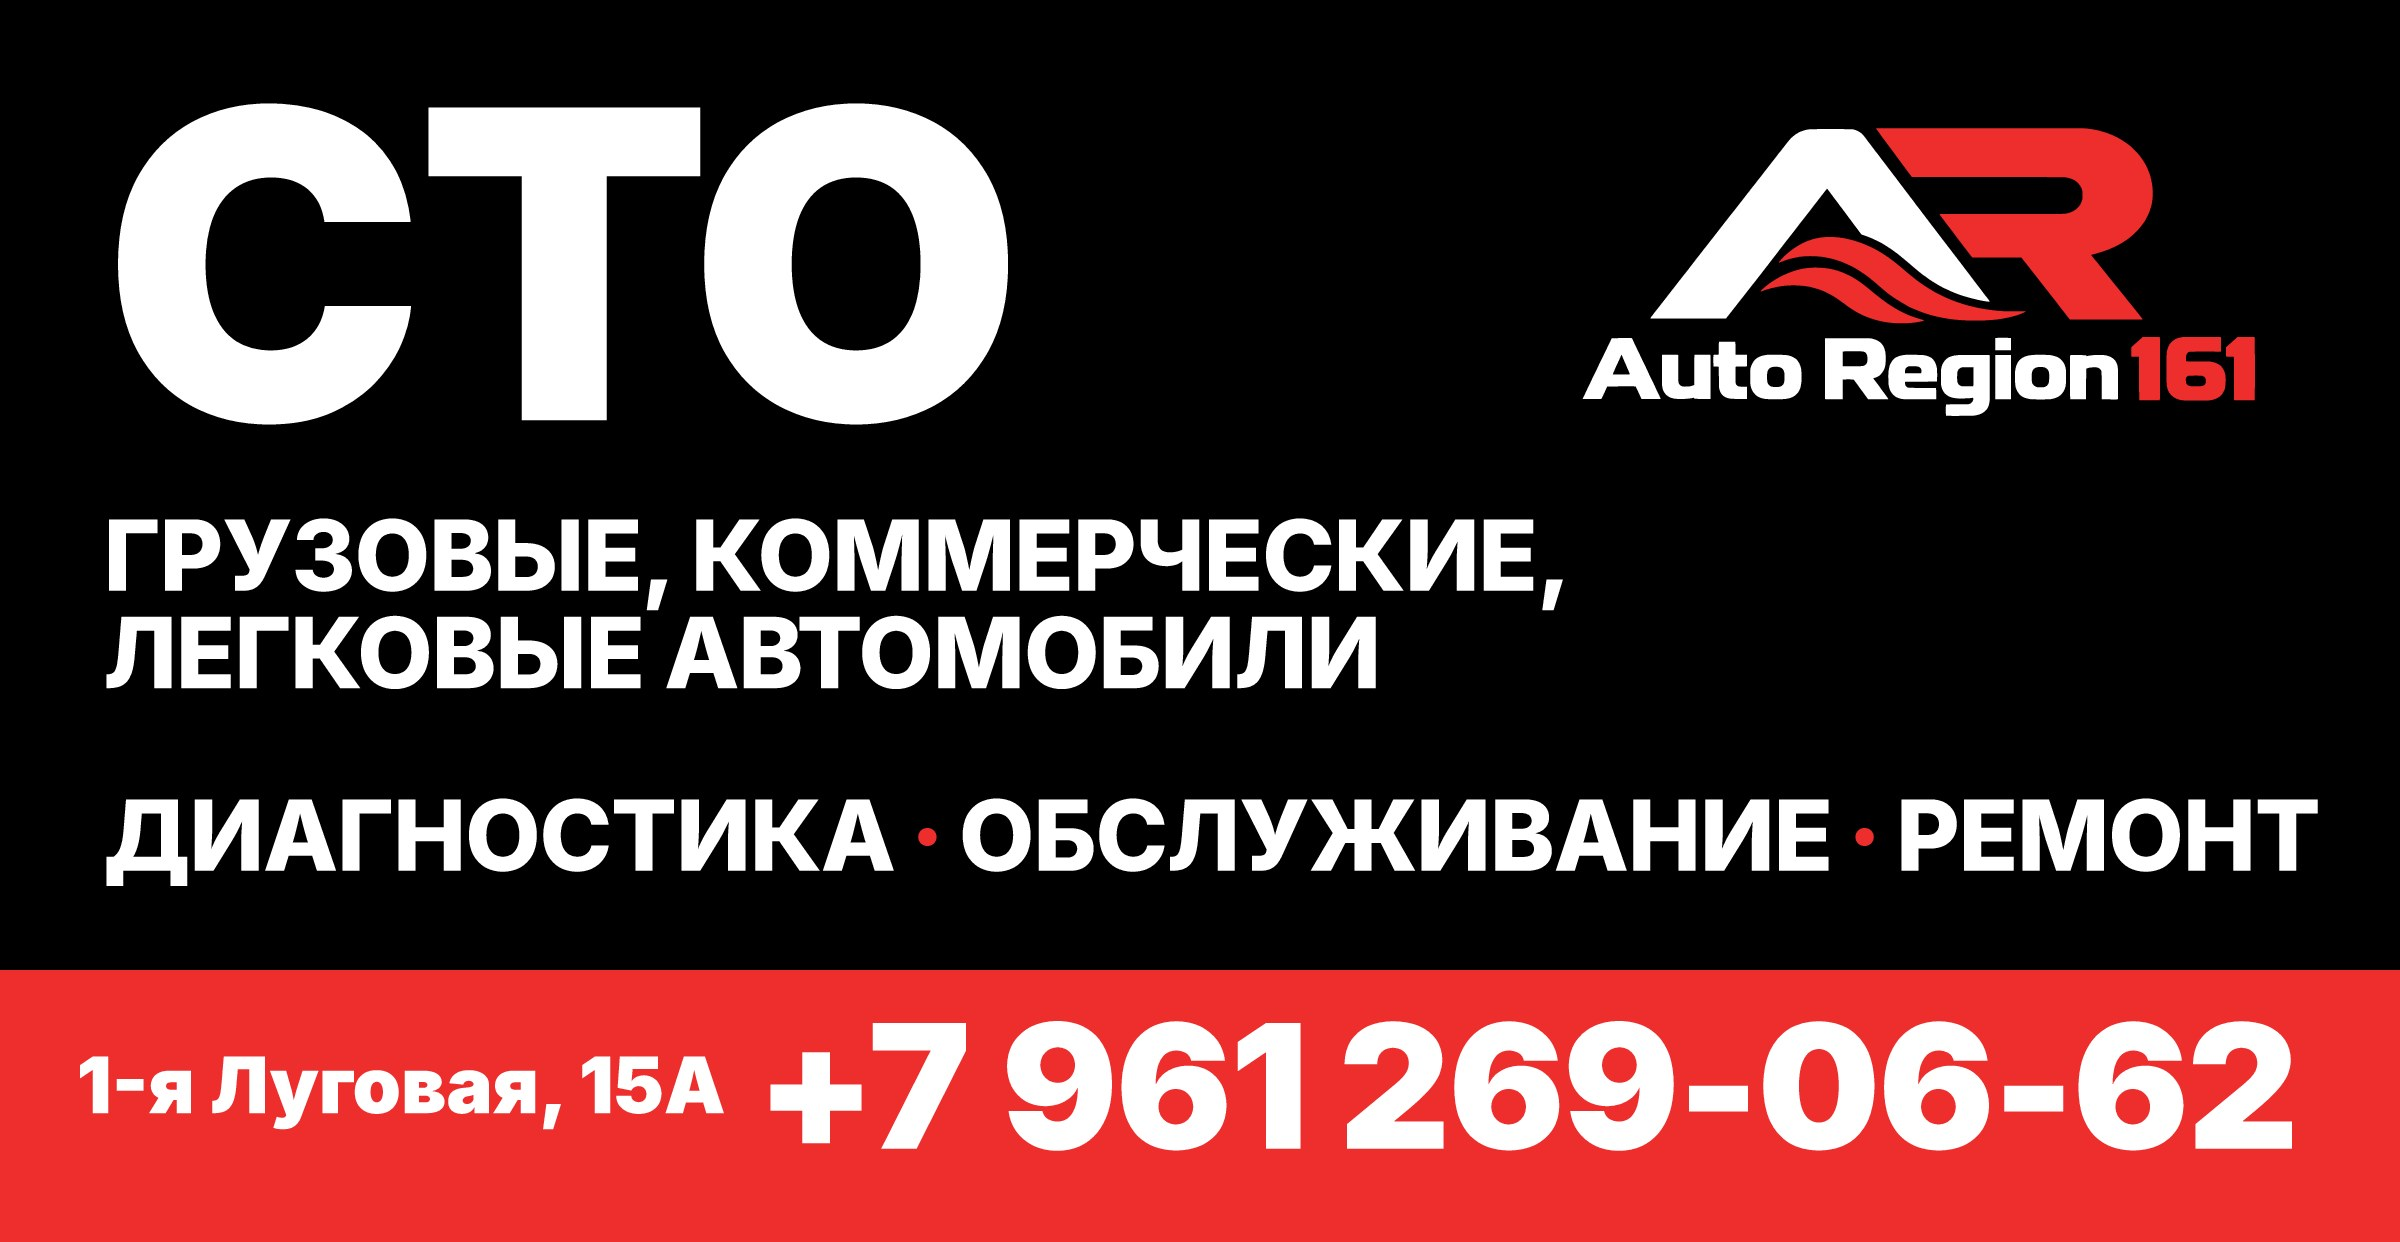
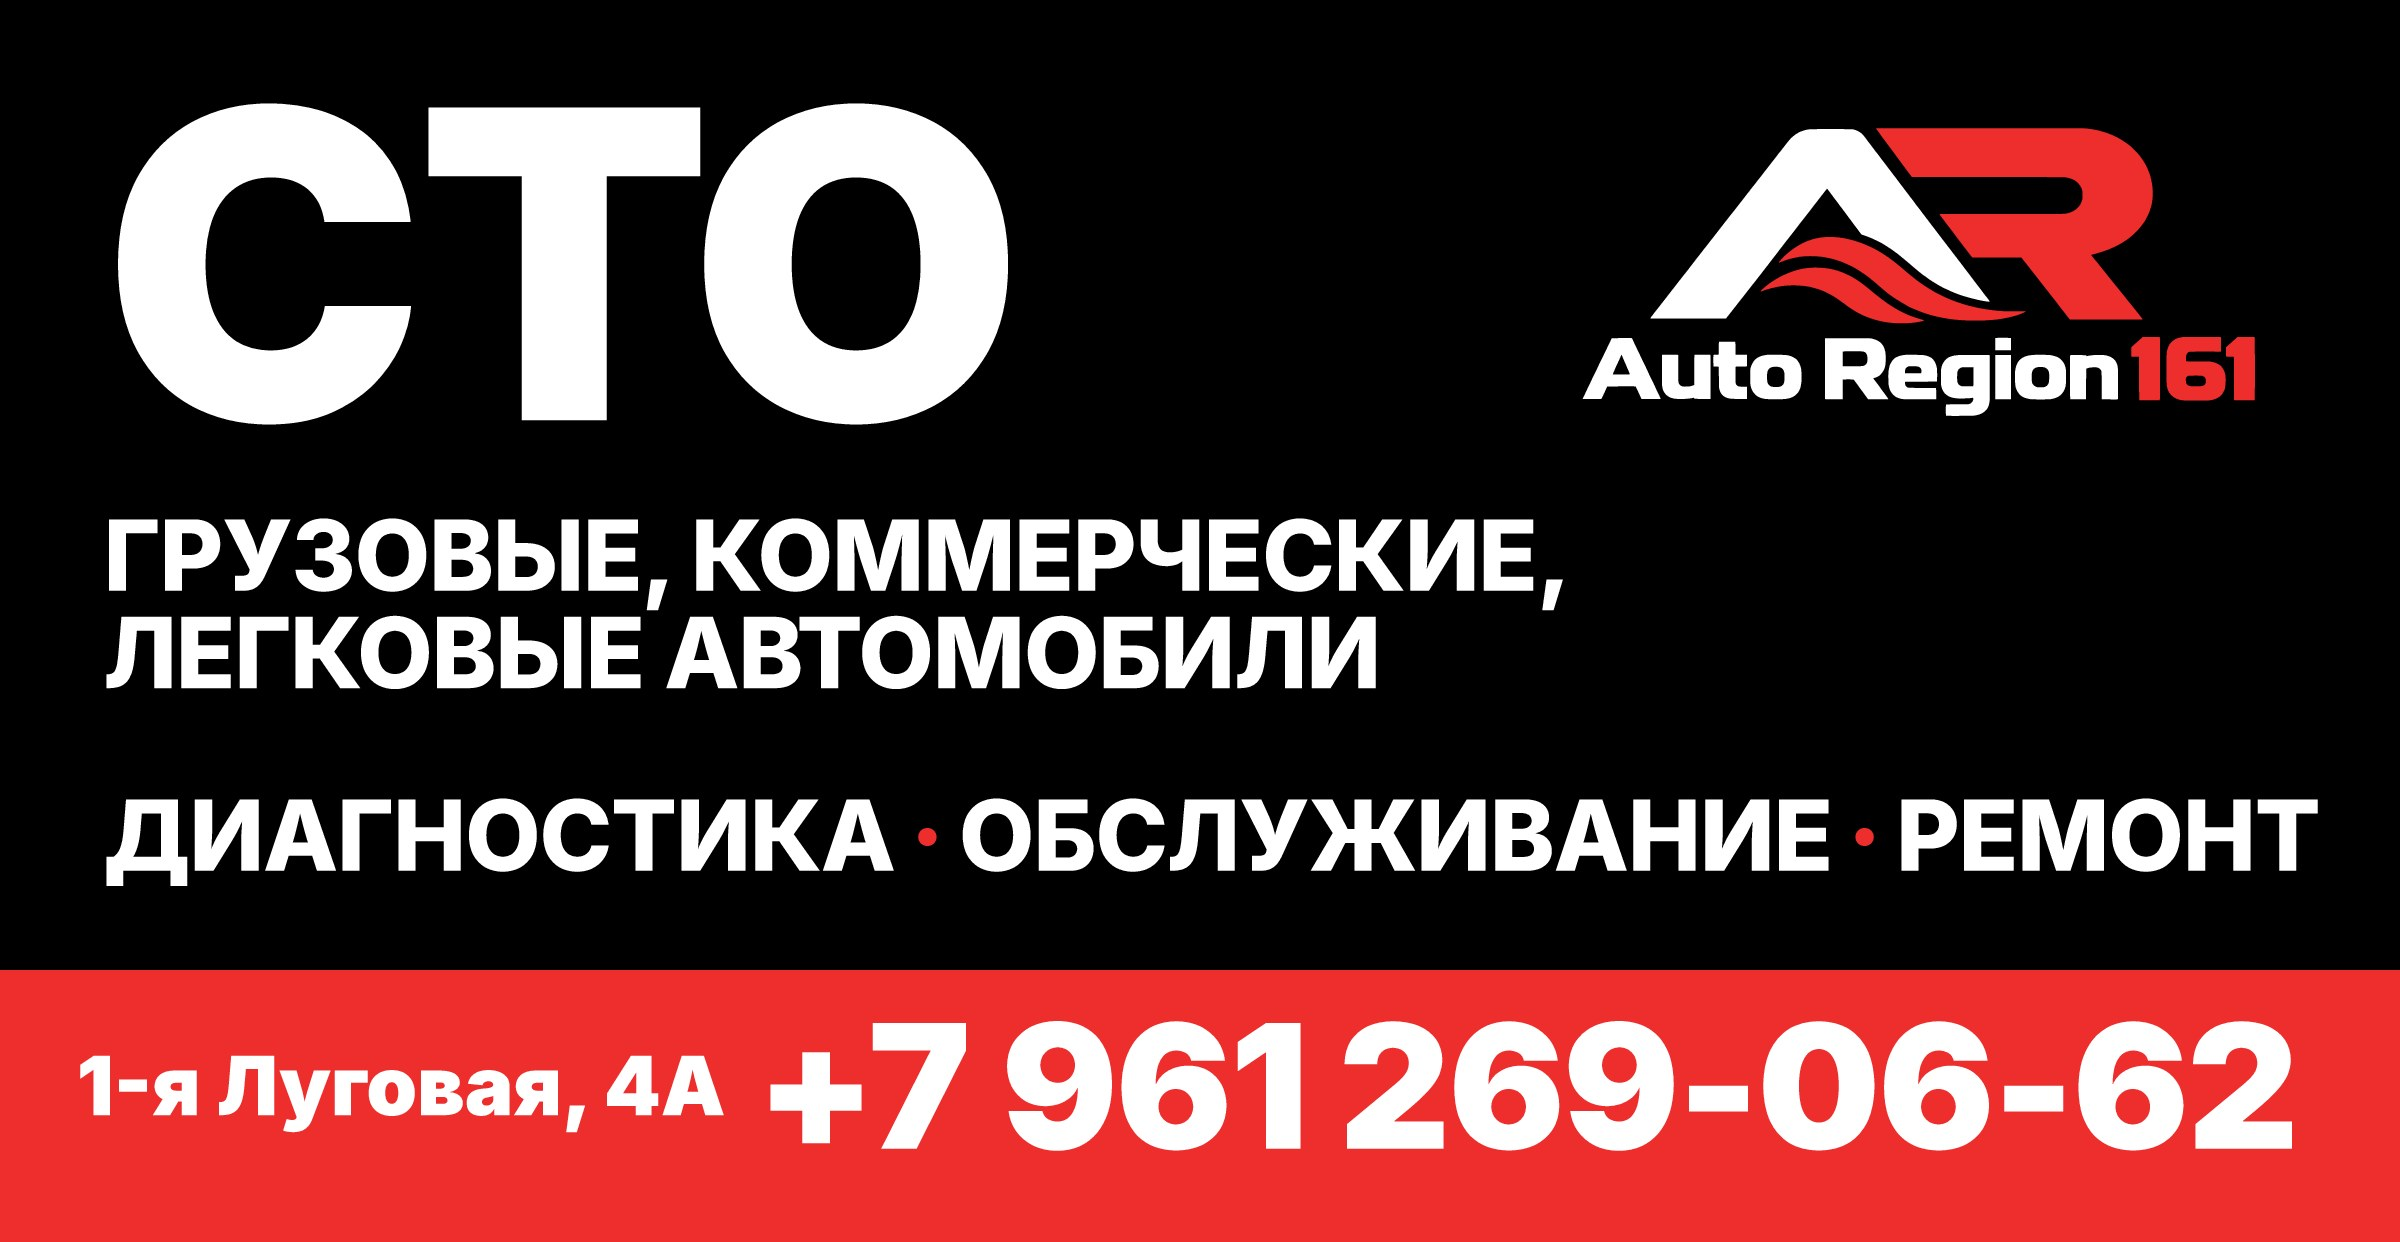
баннеры СТО: адрес второй точки, 1-я Луговая, 4А

Changed region(s): [[0.0312, 0.8567, 0.2812, 0.9179]]

diff --git a/bannery/index.html b/bannery/index.html
@@ -78,7 +78,7 @@ figcaption b { font-weight: 600; }
 <body>
 <div class="wrap">
   <header>
-    <div class="eyebrow">СТО АвтоРегион 161 · ул. 1-я Луговая, 15А</div>
+    <div class="eyebrow">СТО АвтоРегион 161 · ул. 1-я Луговая, 4А</div>
     <h1>Баннеры для сервиса</h1>
     <p class="lead">Три баннера: большой на стену, длинный на забор и указатель к въезду. Ползунок ниже показывает, как их видно с разного расстояния: картинка размывается так, как её различает глаз с улицы.</p>
   </header>
